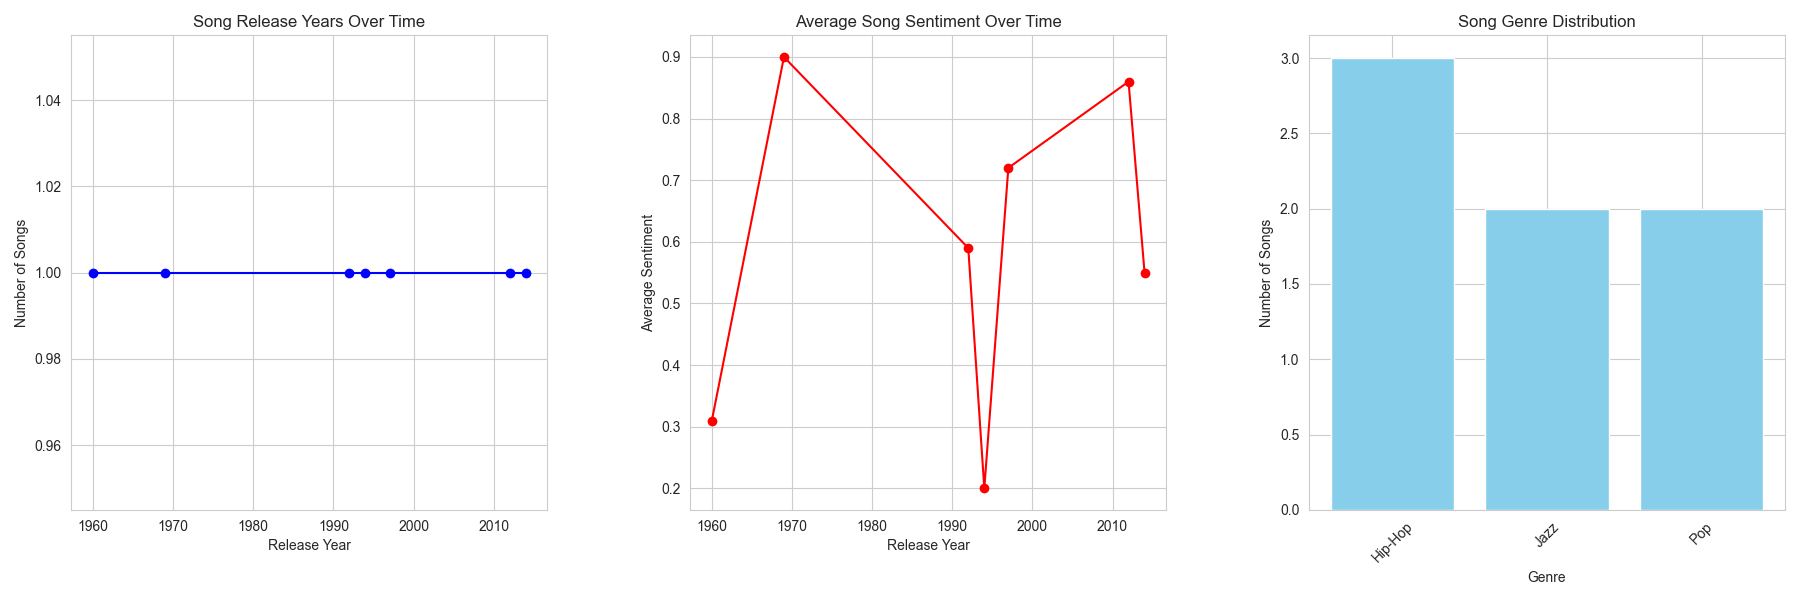
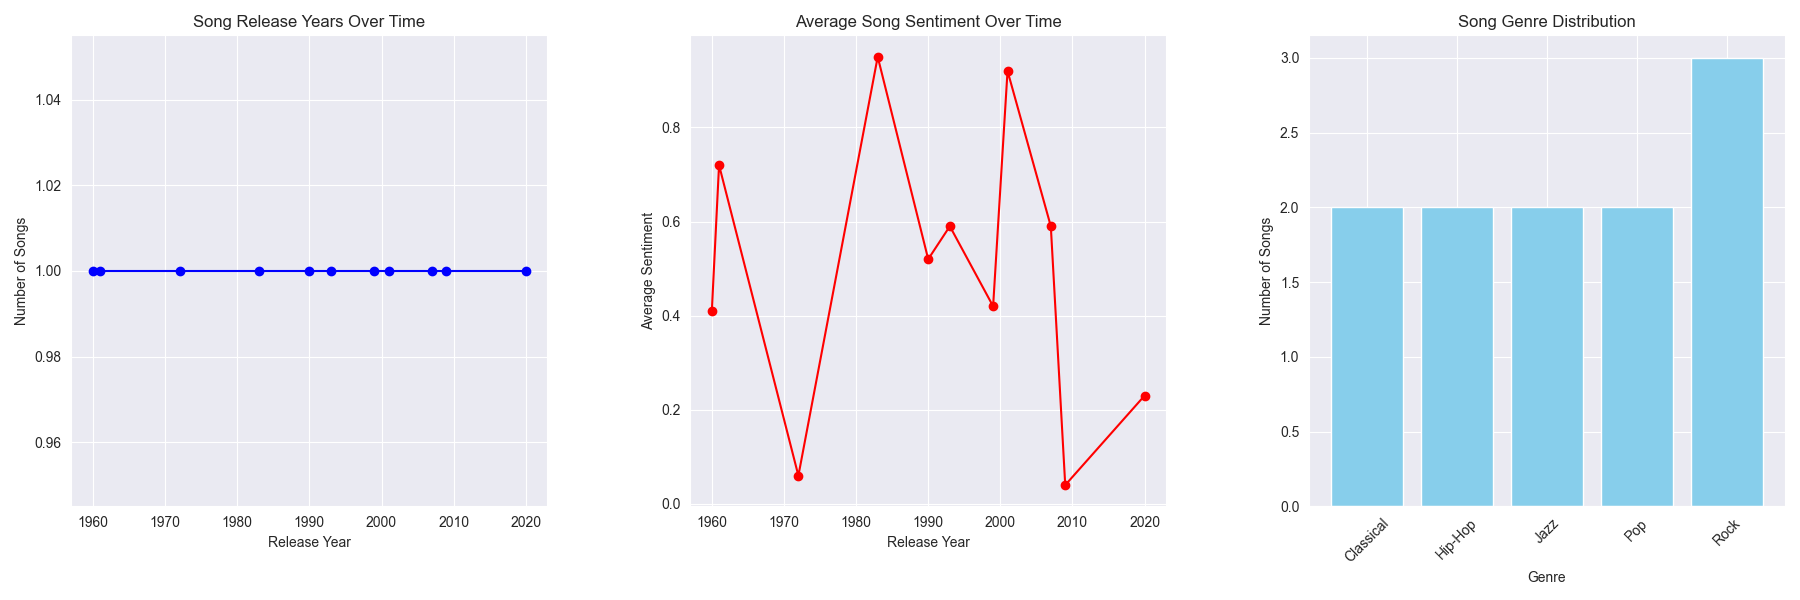
Changed style to darkgrid

diff --git a/consumers/kafka_consumer_song_attributes.py b/consumers/kafka_consumer_song_attributes.py
@@ -185,7 +185,7 @@ def generate_combined_graphs(sql_path: pathlib.Path):
     genre_counts = [row[1] for row in genre_data]
 
     # Set style
-    sns.set_style("whitegrid")
+    sns.set_style("darkgrid")
     sns.set_palette("husl")
 
     # Create subplots (1 row, 3 columns)
